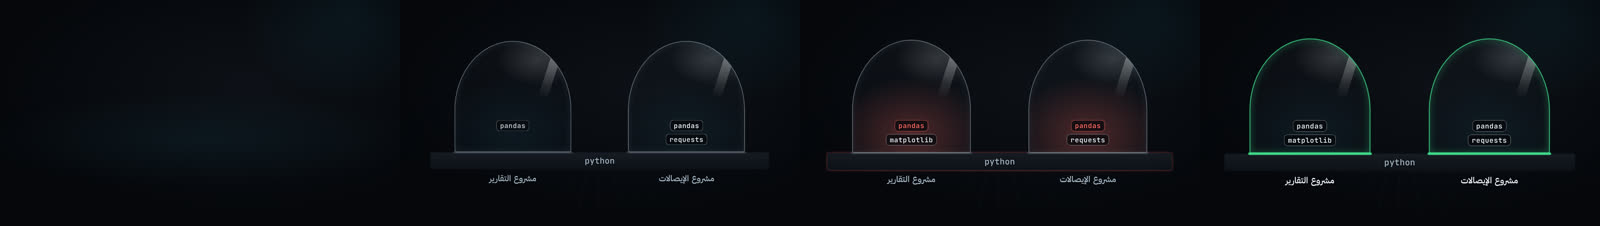
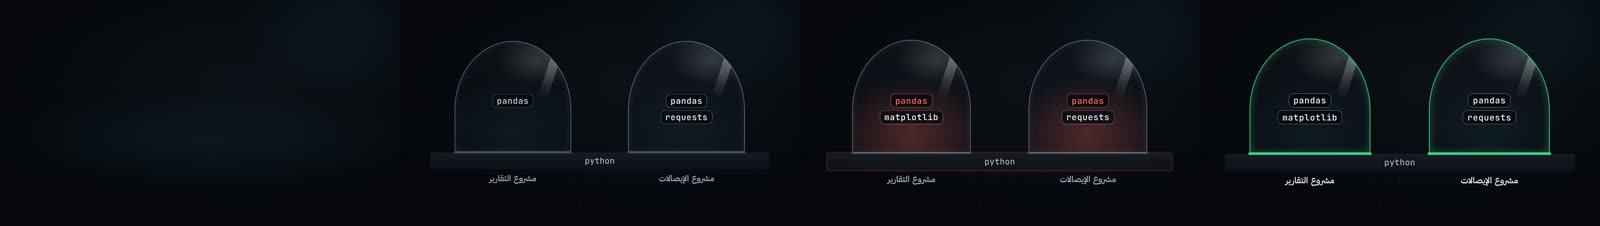
P7 dom-a: VenvDome implemented (snap PASS det 0 qa 0, baselines pending-critic; perf lite 0.095 / standard 0.119 / hero 0.116; Arabic QA pass)
Claude-Session: https://claude.ai/code/session_01VrU9wxU8GmuhdhWAAHnnQ8

diff --git a/studio/src/components/VenvDome/VenvDome.tsx b/studio/src/components/VenvDome/VenvDome.tsx
@@ -37,7 +37,6 @@ export const VenvDomeView: React.FC<DcProps<Props>> = ({props, ctx}) => {
   // pollution: rises on a conflict while unsealed, drains on isolate
   const pol = conf && (isoAt === null || conf.at < isoAt || t < isoAt) ? prog(ctx, conf.at, 'morph', undefined, true) * (isoAt !== null && t >= isoAt ? 1 - prog(ctx, isoAt, 'morph', undefined, true) : 1) : 0;
   const confAfterIso = conf && isoAt !== null && conf.at >= isoAt;
-  const fs = SIZE.label;
   return (
     <div style={{position: 'absolute', inset: 0, ...layerStyle(ctx, rtl)}}>
       <Floor x={box.x} y={floorY} w={box.w} h={Math.round(box.h * 0.3)} opacity={0.5} />
@@ -59,8 +58,8 @@ export const VenvDomeView: React.FC<DcProps<Props>> = ({props, ctx}) => {
         const chipCols = e.packages.length > 4 ? 2 : 1;
         const chipW = (dw * 0.66) / chipCols - 12;
         const rows = Math.ceil(e.packages.length / chipCols);
-        const chipH = Math.min(56, (dh * 0.5) / Math.max(1, rows));
-        const chipTop = floorY - 24 - rows * (chipH + 10);
+        const chipH = Math.min(68, (dh * 0.5) / Math.max(1, rows));
+        const chipTop = y0 + dh * 0.62 - (rows * (chipH + 10)) / 2; // the chip block sits low-centre in the dome
         return (
           <React.Fragment key={i}>
             {/* dome body */}
@@ -85,7 +84,7 @@ export const VenvDomeView: React.FC<DcProps<Props>> = ({props, ctx}) => {
               const py = chipTop + row * (chipH + 10) + chipH / 2;
               return (
                 <Place key={j} x={px + sh} y={py} w={chipW} h={chipH} style={{opacity: ce * ent}}>
-                  <Tag id={`${ctx.id}:p${i}-${j}`} text={pkg} color={mix(C.ink, C.crit, hq)} size={Math.max(SIZE.secondaryMin, Math.min(fs, Math.floor((chipW - 24) / (0.62 * (pkg.length + 1)))))} fx={ctx.fx} on={0.3 + 0.7 * hq} />
+                  <Tag id={`${ctx.id}:p${i}-${j}`} text={pkg} color={mix(C.ink, C.crit, hq)} size={Math.max(SIZE.secondaryMin, Math.min(SIZE.body, Math.floor((chipW - 24) / (0.62 * (pkg.length + 1)))))} fx={ctx.fx} on={0.3 + 0.7 * hq} />
                 </Place>
               );
             })}

diff --git a/docs/p7/catalog_status/dom-a.md b/docs/p7/catalog_status/dom-a.md
@@ -9,3 +9,4 @@
 | Heartbeat | implemented | One rim-lit acrylic row per node: whole-label Arabic/Latin name and a mono SUSPECT/OK tag on the right (RTL start), a status core, then an ECG trace of full PQRST beats (every 24 f@24, seeded phase per node, travelling left and fading) with floor light pool and a radar ring per beat. `miss {node}` stops the beats on the anchor: the trace flatlines in warn (tinted dashed gap grows, dashed ghost spikes mark each beat that did not come), the core hollows and breathes, tag SUSPECT, impact flash. `recover {node}` resumes beats on the anchor frame (RV1 onset), core refills ok, flash + ring. `interval` is shown (clock glyph + value + unit, mono LTR isolate; whole seconds from 60 up read "M min S s"), never converted to frames. DOM + SVG only, so lite = standard = hero code. Demo = HDFS DataNodes (s:S4:P18:0035-0036): one dies, its heartbeat stops, the cluster notices after 630 s, the node re-registers. Baselines pending-critic (snap PASS, determinism 0 px, 0 QA findings). Perf box s/frame at 3 slots: lite 0.080, standard 0.092, hero 0.093 (budgets 0.201 / 0.201 / 1.038). Arabic QA pass (OCR 0.933). Limit: the frozen prop is named `interval`, but the only sourced number in the demo is the spoken 630 s dead-node window (not the beat period), so the demo shows it as that window under the clock glyph; a fact-check read should confirm the framing. Open notes: no still of the recover beat itself; no hero-only extra. |
 | LogScroll | implemented | Logs as a scrolling ledger with a grep spotlight, on a rim-lit acrylic plate over a holographic floor. Header strip: live dot + `tail -f`, which becomes `grep LEVEL` when the spotlight lands. Each row = level gutter bar + level tag (debug ink3, info signal, warn amber, error crit; warn / error rows carry a standing wash) + the line in a mono LTR isolate (an Arabic run inside a line goes through MixedText, whole words); a new line wipes in left to right and blooms in its tone. Lines append one per 12 / 6 / 3 f@24 (speed), the window scrolls once 9 rows are full, upper rows recede (mild dim). A severity rail on the right maps every line (viewport bracketed, hit glowing). `highlight {index}` stops the feed, eases the hit into view, lights it (level-tone band, left rule, chevron, light sweep), switches the rim, back glow and floor pool to the hit's tone and dims every other row to 30 %. DOM + SVG only (no filters, no CSS transforms on rows), so lite = standard = hero code. Demo = the connection-pool lab (d:6.6:1 67 req/s, d:6.6:2 260 req/s, d:6.6:3 289, d:6.6:4 1 160 ms, d:6.6:5 25 req/s, d:6.6:8 100 %, d:6.6:6 150 ms), grep lands on the borrow-timeout error. Baselines approved-critic (round 1, 7/10, no blocking issue) (snap PASS, determinism 0 px, 0 QA findings; p50 lands 2 f after the highlight anchor). Perf box s/frame at 3 slots: lite 0.090, standard 0.119, hero 0.141 (budgets 0.201 / 0.201 / 1.038). Arabic QA pass (7 Latin demo strings; the demo has no Arabic copy, the frozen schema carries Latin code lines only). Fixed in this pass: a full-extent clip-path on settled rows made the p50 still non-deterministic (650 px), so the wipe is applied only while a row is revealing. Open notes: after a highlight the feed stays frozen (no later lines appear); log line numbers are deliberately not drawn (they would read as data); no still of the `fast` / `slow` speeds or a 30-line scroll. Critic non-blocking, open: demo has 7 lines so the 9-row scroll path has no baseline; flat single plane; DEBUG tag / dim floor low contrast; header `tail -f` ~22 px; no Arabic line in the demo. Disk guard (3.0 GB free) blocked a fresh snap re-run in this pass; last snap PASS (det 0 px) and perf stand. |
 | CollectionMorph | implemented | One token per item whose body changes with the collection type: coupled car on a rail (list), dashed car with a lock (tuple), glass bubble (set), locker door with key plate (dict), memory cell (array), table row (dataframe), index-rail row (series), quoted line (json); mono bracket glyphs and a `from -> to` type pair cross-fade; holographic floor, back glow in the type's tone, rim light, floor pool under every item, seeded bubble bob. Items are code values in mono LTR (an Arabic item goes through FitText as one whole word run). The frozen schema has no action, so the morph starts on the anchor word's END (6 f@24 after the last arrival at the earliest), 12 f@24 long (RV1 onset), items staggered 1 f@24. When the target dedups (set, dict keys) duplicate copies glow warn, fly onto the first copy and fade into it (first copy flashes ok, ring, seeded sparks); the reverse splits them out. No count is drawn (it would be a derived figure). DOM only, so lite = standard = hero code. Demo = the cleaning lab receipt ids 1006-1010 with 1008 twice (d:6.1:3 DataFact "1008", s:S4:P11:0019; 04 section 6 "set = bubbles merging duplicates"), list -> set. Baselines pending-critic (snap PASS, determinism 0 px, 0 QA findings; one snap under queue load showed det 1352 px at p50 and was refused, a quiet re-run was 0 px and byte-identical to the previous baseline). Perf box s/frame at 3 slots: lite 0.074, standard 0.103, hero 0.101 (budgets 0.201 / 0.201 / 1.038; a loaded run read 0.34-0.36 and was discarded). Arabic QA pass (7 Latin/digit strings, `reports/p7/qa_arabic_CollectionMorph.json`; the demo has no Arabic copy, the frozen items are code strings). Open notes: no still of the warn-glow moment just before the merge or of the other 14 from -> to pairs (dict, dataframe, series, json layouts have no baseline); morph start is tied to the anchor word's end because the schema has no action. |
+| VenvDome | implemented | 1-3 glass domes (RTL: env 0 on the right) standing on one shared base plate = the interpreter (`python` label), each with an acrylic rim, specular streak from the upper right, haze and a floor light pool; package chips in mono LTR (low-centre of each dome), env name in whole-phrase Arabic FitText under it. `conflict {package}` turns every chip of that name crit with a 2 px shake and, while the domes are not sealed, floods all domes and the base plate with a crit haze (the pollution travels through the open base). `isolate` sweeps a seal ring up each dome (3 f@24 stagger, RV1 onset), lights the rims and base seals ok, drains the haze and calms the conflicting chips to ink (each env keeps its own copy). DOM + SVG only, no blur filters, so lite = standard = hero code. Demo = two projects (receipts, reports) that both need pandas (04 section 6 "Collections & envs": global install pollutes every dome, isolated venv; corpus `python -m venv .venv`, `pip install numpy pandas matplotlib scikit-learn`); no numbers drawn. Baselines pending-critic (snap PASS, determinism 0 px, 0 QA findings). Perf box s/frame at 3 slots: lite 0.095, standard 0.119, hero 0.116 (budgets 0.201 / 0.201 / 1.038). Arabic QA pass (6 strings, OCR min 1.0, `reports/p7/qa_arabic_VenvDome.json`). Open notes: domes are a flat 2D silhouette (no 3D); no still of the conflict shake frame or a 3-dome / 8-package layout; the frozen `python` is a label, so no version is drawn. |
